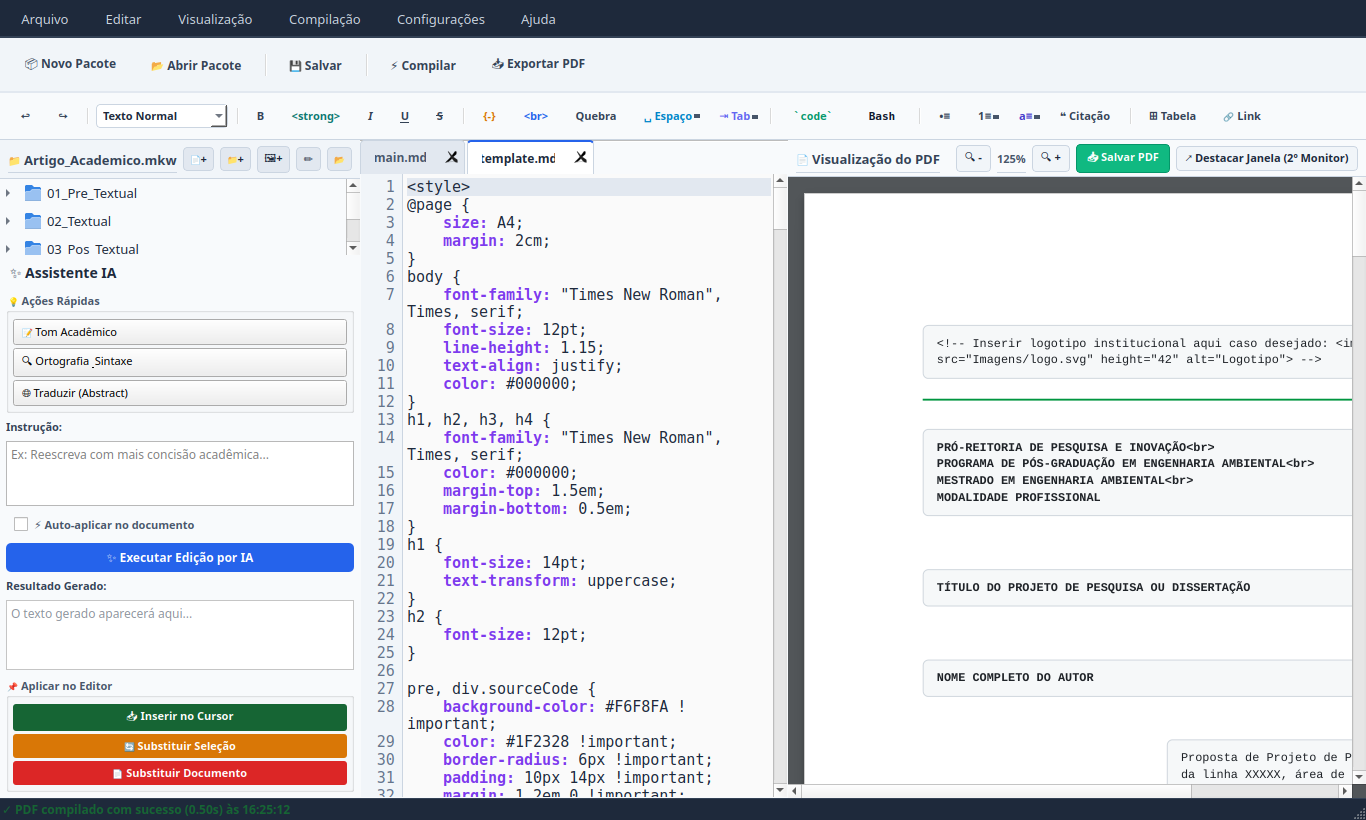
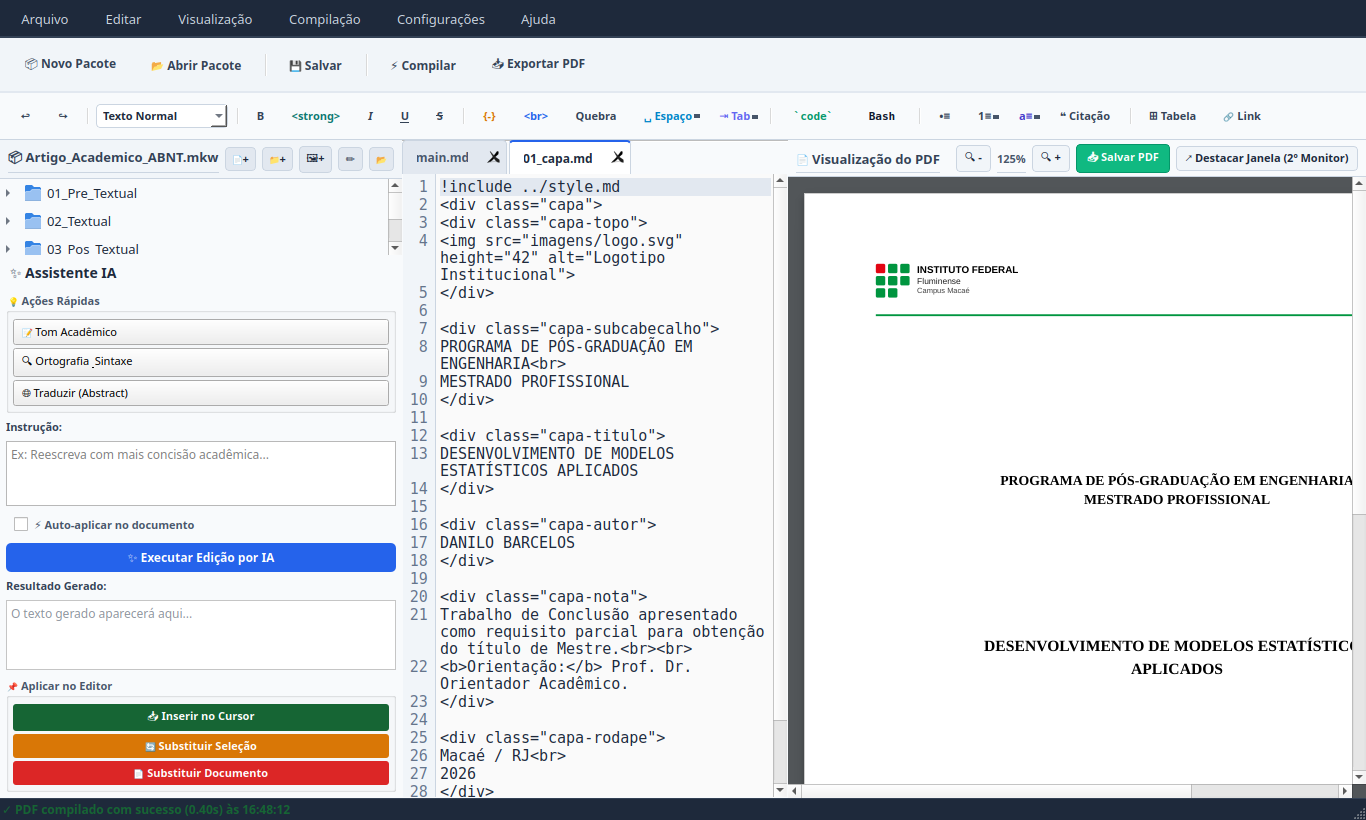
fix: adiciona logotipo institucional no cabeçalho e atualiza captura da interface no README

diff --git a/app/package_manager.py b/app/package_manager.py
@@ -213,6 +213,10 @@ def create_new_package(target_package_path: str, title: str = "Novo Documento Ac
         os.makedirs(pos_dir, exist_ok=True)
         os.makedirs(img_dir, exist_ok=True)
 
+        source_logo = os.path.join(project_root, "resources", "logo.svg")
+        if os.path.isfile(source_logo):
+            shutil.copy2(source_logo, os.path.join(img_dir, "logo.svg"))
+
         # 1. main.md
         main_content = """<!-- ========================================== -->
 <!-- ESTILO                                     -->
@@ -247,8 +251,7 @@ def create_new_package(target_package_path: str, title: str = "Novo Documento Ac
 <div class="capa">
 <div>
 <div class="capa-topo">
-<div class="capa-iff-texto">NOME DA INSTITUIÇÃO DE ENSINO</div>
-<div class="capa-iff-campus">Centro / Departamento Universitário</div>
+<img src="imagens/logo.svg" height="42" alt="Logotipo Institucional">
 </div>
 
 <div class="capa-subcabecalho">

diff --git a/resources/template.md b/resources/template.md
@@ -331,37 +331,35 @@ ol ol ol {
 
 <!-- CAPA MODELO DO PROFESSOR -->
 <div class="capa">
+<div class="capa-topo">
+<img src="Imagens/logo.svg" height="42" alt="Logotipo Institucional">
+</div>
 
-  <div class="capa-topo">
-    <!-- Inserir logotipo institucional aqui caso desejado: <img src="Imagens/logo.svg" height="42" alt="Logotipo"> -->
-  </div>
+<div class="capa-subcabecalho">
+PRÓ-REITORIA DE PESQUISA E INOVAÇÃO<br>
+PROGRAMA DE PÓS-GRADUAÇÃO EM ENGENHARIA AMBIENTAL<br>
+MESTRADO EM ENGENHARIA AMBIENTAL<br>
+MODALIDADE PROFISSIONAL
+</div>
 
-  <div class="capa-subcabecalho">
-    PRÓ-REITORIA DE PESQUISA E INOVAÇÃO<br>
-    PROGRAMA DE PÓS-GRADUAÇÃO EM ENGENHARIA AMBIENTAL<br>
-    MESTRADO EM ENGENHARIA AMBIENTAL<br>
-    MODALIDADE PROFISSIONAL
-  </div>
+<div class="capa-titulo">
+TÍTULO DO PROJETO DE PESQUISA OU DISSERTAÇÃO
+</div>
 
-  <div class="capa-titulo">
-    TÍTULO DO PROJETO DE PESQUISA OU DISSERTAÇÃO
-  </div>
+<div class="capa-autor">
+NOME COMPLETO DO AUTOR
+</div>
 
-  <div class="capa-autor">
-    NOME COMPLETO DO AUTOR
-  </div>
+<div class="capa-nota">
+Proposta de Projeto de Pesquisa da linha XXXXX, área de atuação WWWWW, apresentada para avaliação.<br><br>
+<b>Orientação:</b> Prof. Dr. YYYYY.<br>
+<b>Coorientação:</b> Prof. Dr. ZZZZZZ (opcional).
+</div>
 
-  <div class="capa-nota">
-    Proposta de Projeto de Pesquisa da linha XXXXX, área de atuação WWWWW, apresentada para avaliação.<br><br>
-    <b>Orientação:</b> Prof. Dr. YYYYY.<br>
-    <b>Coorientação:</b> Prof. Dr. ZZZZZZ (opcional).
-  </div>
-
-  <div class="capa-rodape">
-    Cidade/UF<br>
-    2026
-  </div>
-
+<div class="capa-rodape">
+Cidade/UF<br>
+2026
+</div>
 </div>
 
 <div class="page-break"></div>
